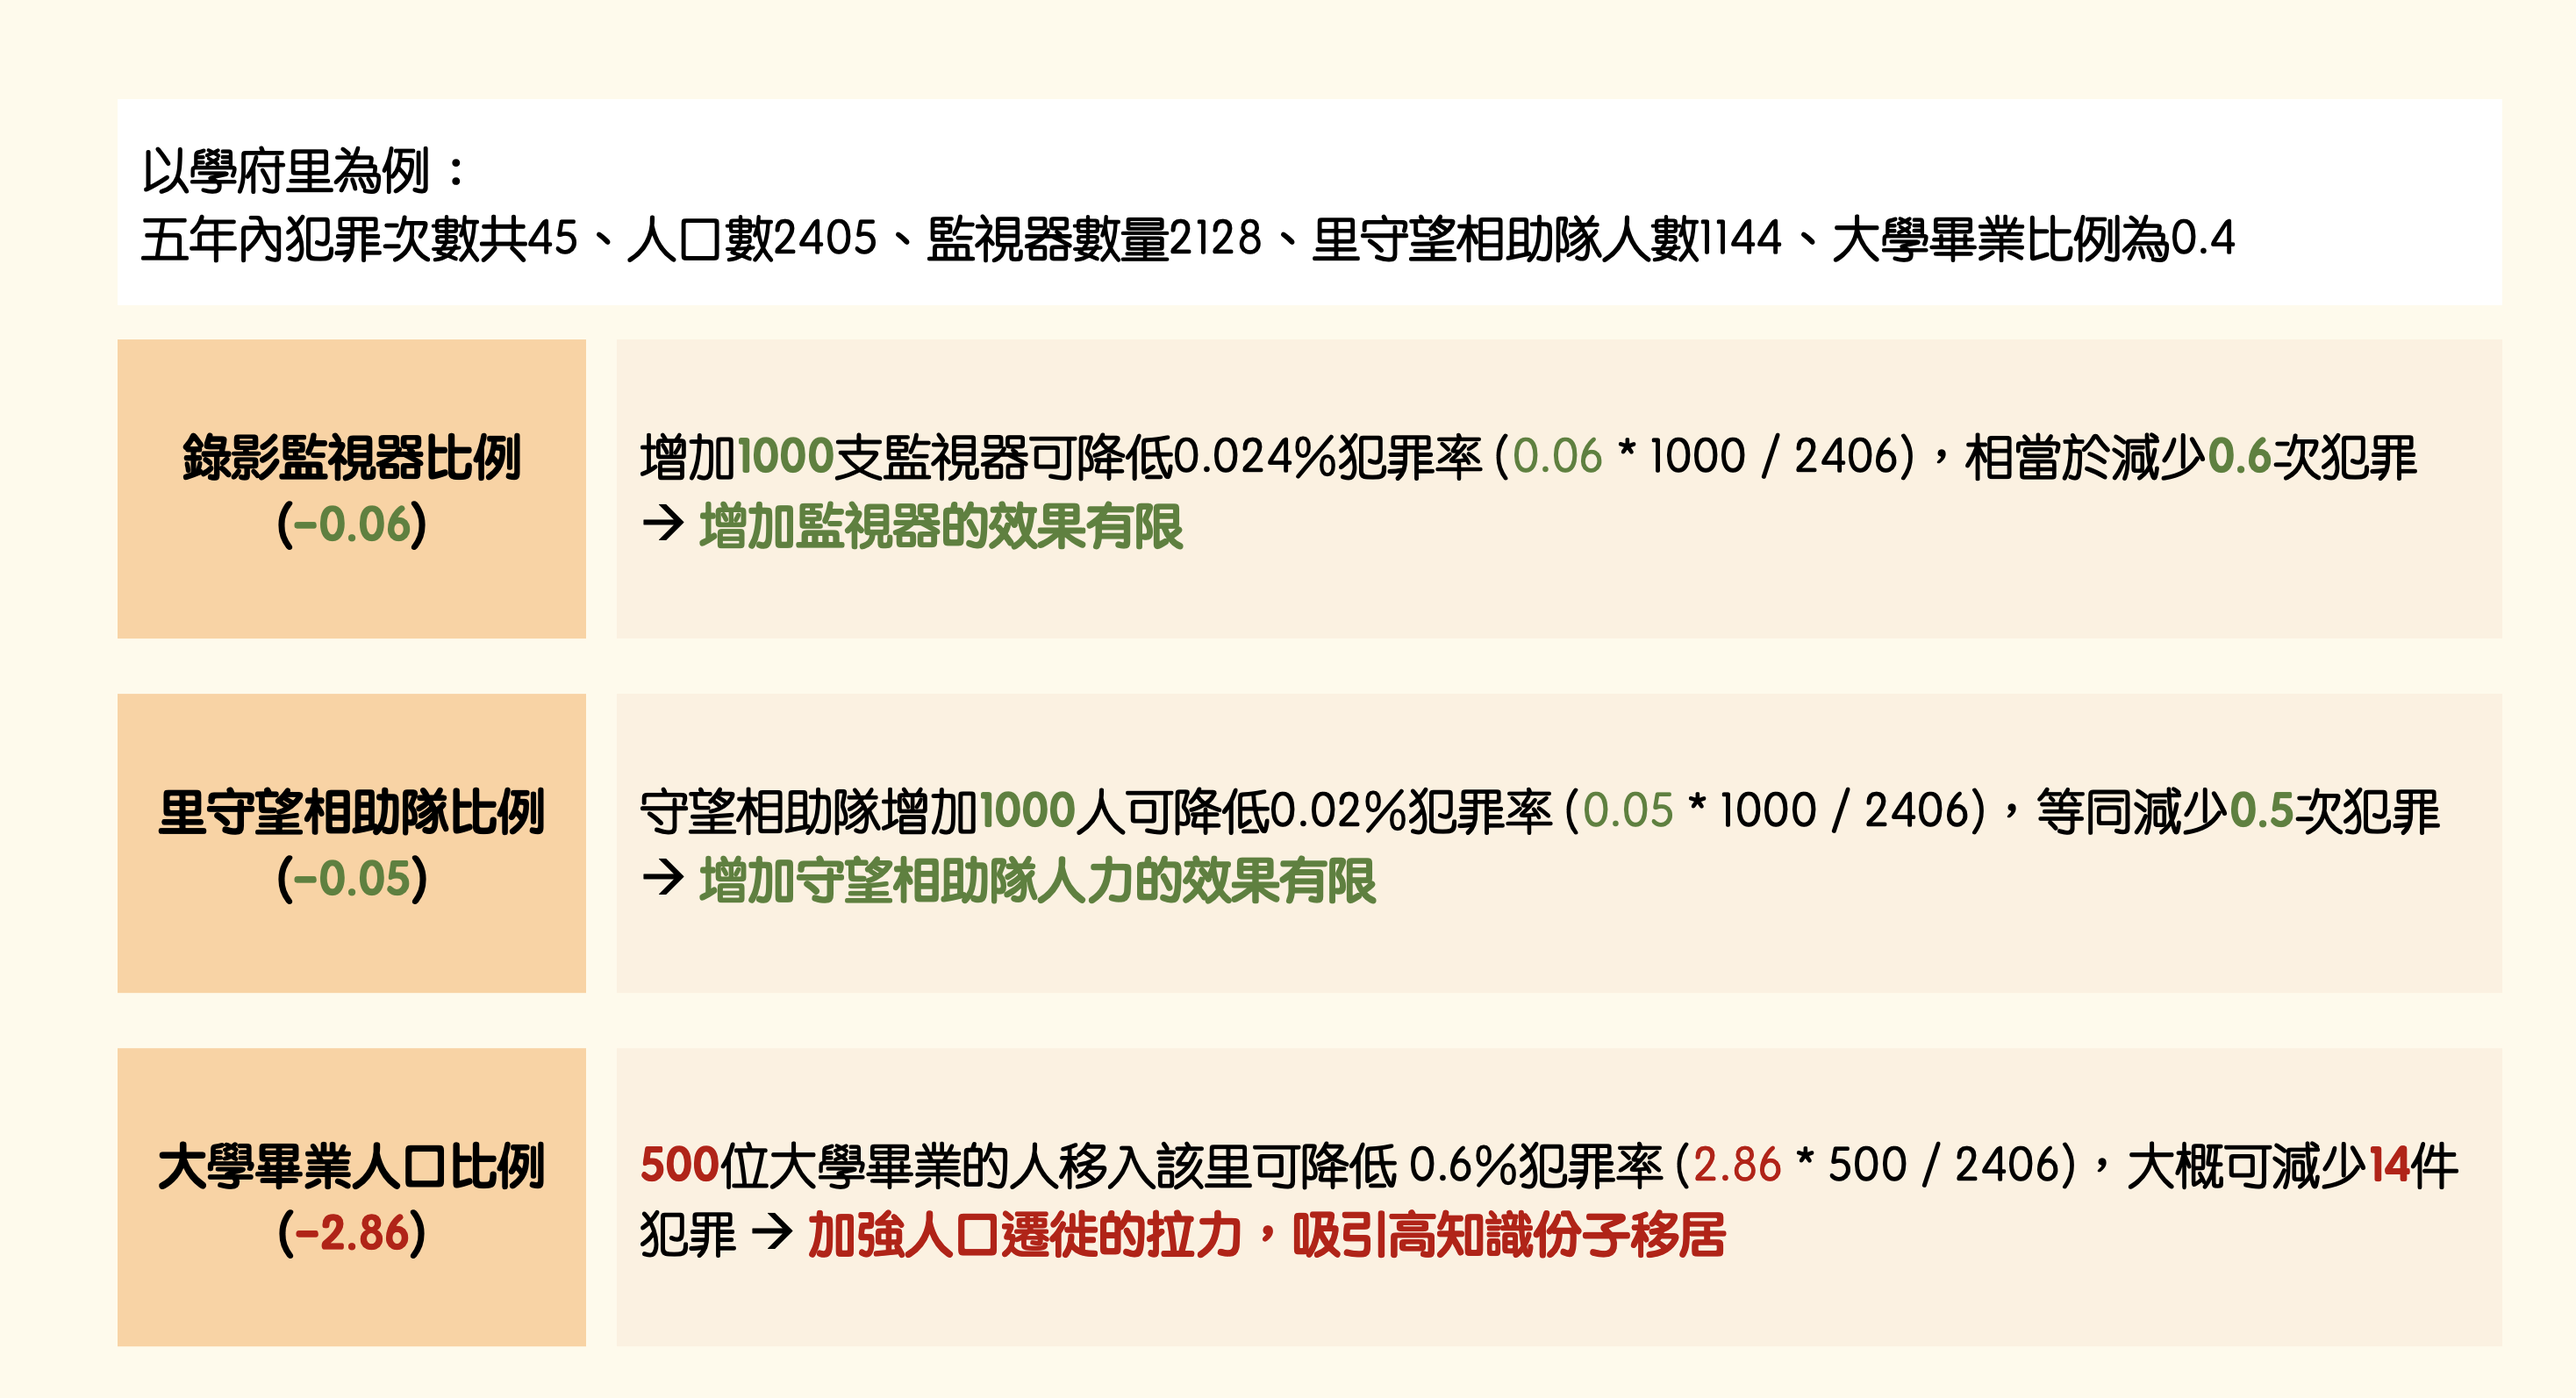
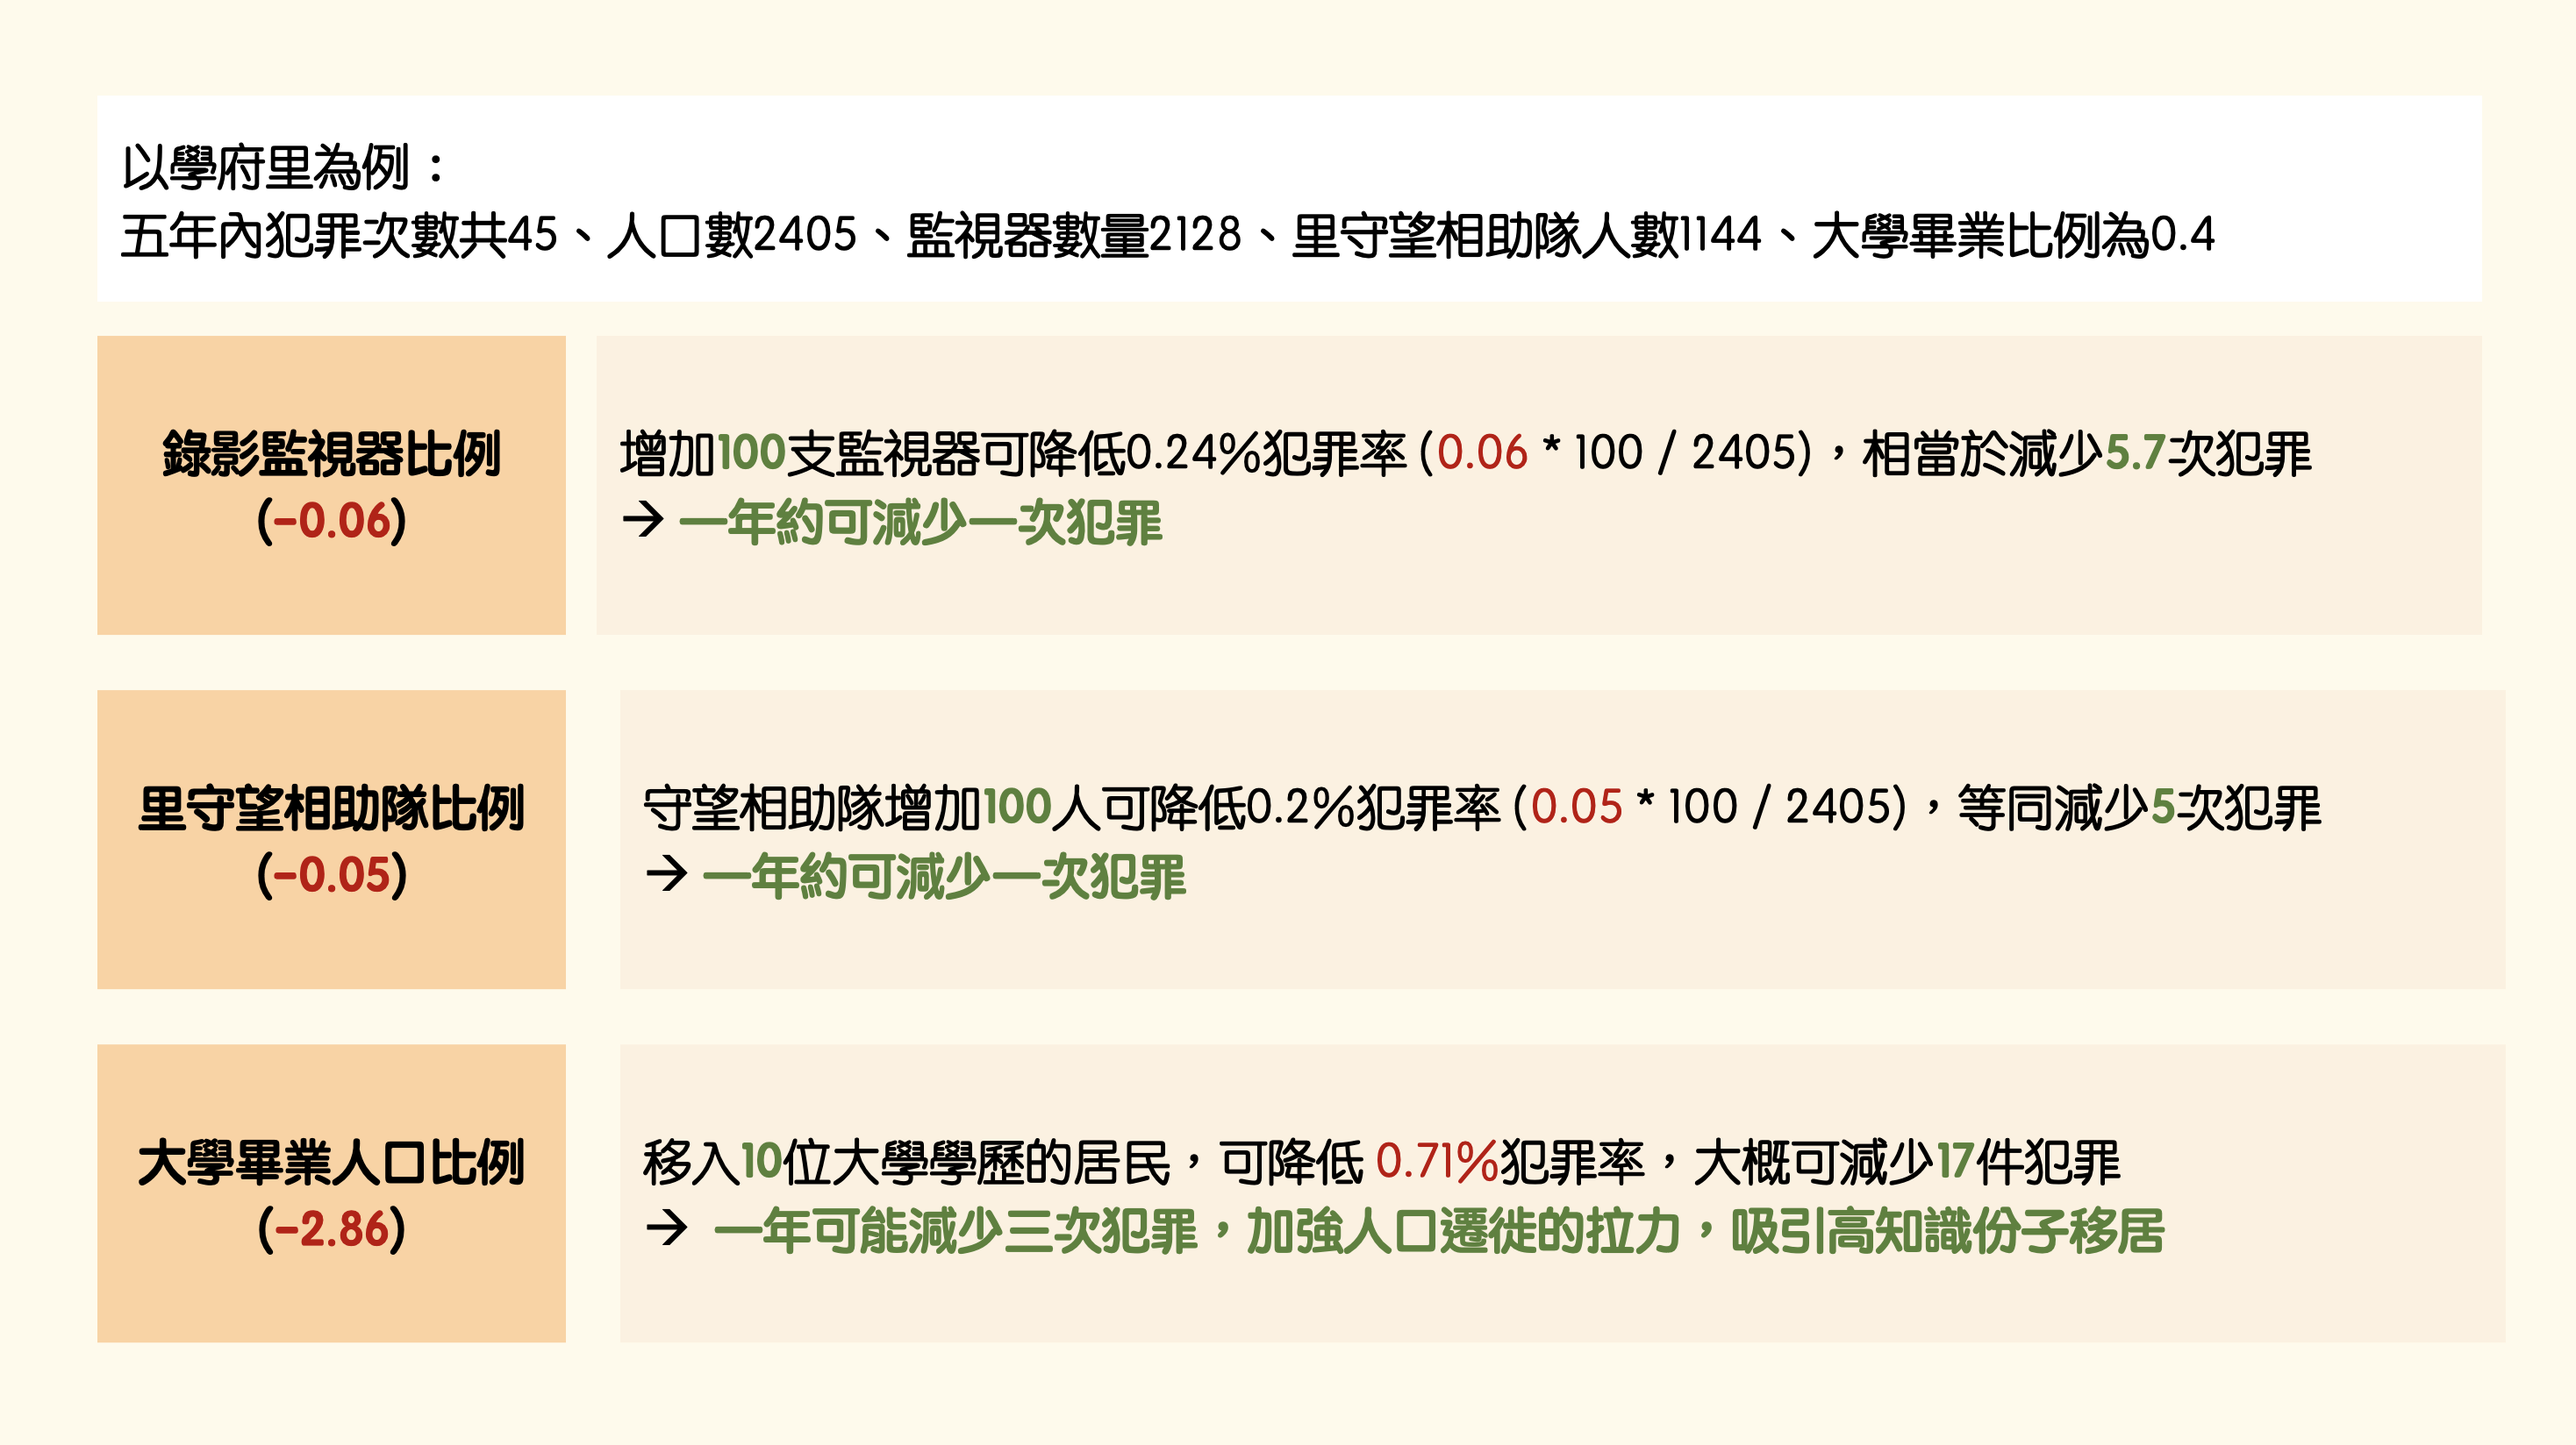
9.12-2

Changed region(s): [[0.031, 0.2152, 0.9608, 0.9837], [0.031, 0.0922, 0.8678, 0.1844]]

diff --git a/demo/templates/analysis.html b/demo/templates/analysis.html
@@ -15,9 +15,9 @@
         <h3>分析摘要</h3>
         <img src="{{ imagePath }}/../reg2.jpg" style="display:block; margin:auto; width: 1200px; "/>
         <p>我們使用線性回歸分析來研究對治安結果具有重要影響的多個變數。在 13 個變數中，我們發現有 5 個變數對犯罪率有顯著影響，其中 3 個變數與犯罪率呈負相關：</p>
-        <p>1. 錄影監視器比例：以犯罪率最高的學府里為例，其犯罪率為 1.87%，主要犯罪類型是腳踏車竊盜案。如果監視器與人口的比例增加一倍，可能使該地區的犯罪率下降0.06%。</p>  
-        <p>2. 里守望相助隊比例：以近五年住宅竊盜案最多的忠勤里為例（共有 17 起報告的住宅竊盜案），該區的里守望相助隊比例為 17.29%。若該比例增加一倍，此區近五年的住宅竊盜案才有可能減少0.05件。</p>   
-        <p>3. 大學畢業的人口比例：我們可以關注到大學畢業人口比例每增加 1％，可能會使該里的犯罪率下降 0.0286%，如何提高該地高知識居民佔比是值得思考的方向。</p>
+        <p>1. 錄影監視器比例：以犯罪率最高的學府里為例，其犯罪率為 1.87%，主要犯罪類型是腳踏車竊盜案。如果監視器與人口的比例增加1%，可能使該地區的犯罪率下降0.06%。</p>  
+        <p>2. 里守望相助隊比例：以近五年住宅竊盜案最多的忠勤里為例（共有 17 起報告的住宅竊盜案），該區的里守望相助隊與人口的比例為 17.29%。若該比例增加1%，此區近五年的住宅竊盜案有可能減少0.05件。</p>   
+        <p>3. 大學畢業的人口比例：我們可以關注到大學畢業人口比例每增加 1％，可能會使該里的犯罪率下降 2.86%，因此提高該地高知識居民佔比是值得思考的方向。</p>
 
         <h3>所有變數</h3>
         <link rel="preconnect" href="https://fonts.gstatic.com">
